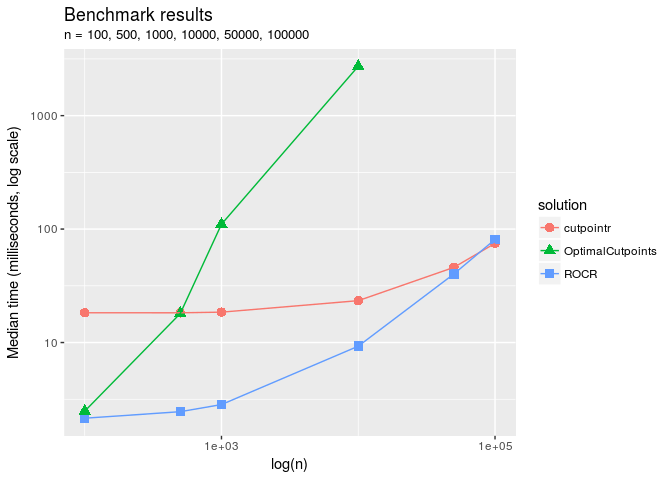
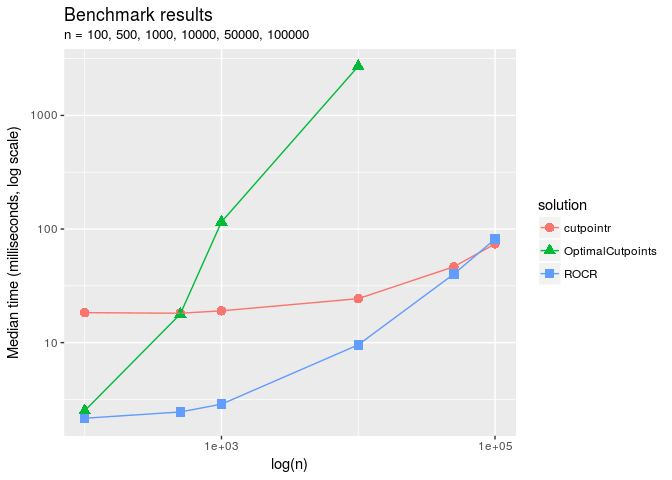
Modify print.cutpointr to print full width again

diff --git a/README.md b/README.md
@@ -76,13 +76,15 @@ opt_cut <- cutpointr(suicide, dsi, suicide)
 #> Assuming yes as the positive class
 #> Assuming the positive class has higher x values
 opt_cut
-#> # A tibble: 1 x 15
 #>   direction optimal_cutpoint          method Sum_Sens_Spec  accuracy
 #>       <chr>            <dbl>           <chr>         <dbl>     <dbl>
 #> 1        >=                2 maximize_metric      1.751792 0.8646617
-#> # ... with 10 more variables: sensitivity <dbl>, specificity <dbl>,
-#> #   AUC <dbl>, pos_class <fctr>, neg_class <fctr>, prevalence <dbl>,
-#> #   outcome <chr>, predictor <chr>, data <list>, roc_curve <list>
+#>   sensitivity specificity       AUC pos_class neg_class prevalence outcome
+#>         <dbl>       <dbl>     <dbl>    <fctr>    <fctr>      <dbl>   <chr>
+#> 1   0.8888889   0.8629032 0.9237791       yes        no 0.06766917 suicide
+#>   predictor               data          roc_curve
+#>       <chr>             <list>             <list>
+#> 1       dsi <tibble [532 x 2]> <tibble [13 x 10]>
 ```
 
 cutpointr makes assumptions about the direction of the dependency between class and x, if `direction` and / or `pos_class` or `neg_class` are not specified. The same result can be achieved by manually defining `direction` and the positive / negative classes which is slightly faster:
@@ -91,13 +93,15 @@ cutpointr makes assumptions about the direction of the dependency between class 
 opt_cut <- cutpointr(suicide, dsi, suicide, direction = ">=", pos_class = "yes",
                      neg_class = "no", method = maximize_metric, metric = youden)
 opt_cut
-#> # A tibble: 1 x 15
 #>   direction optimal_cutpoint          method Youden_Index  accuracy
 #>       <chr>            <dbl>           <chr>        <dbl>     <dbl>
 #> 1        >=                2 maximize_metric    0.7517921 0.8646617
-#> # ... with 10 more variables: sensitivity <dbl>, specificity <dbl>,
-#> #   AUC <dbl>, pos_class <chr>, neg_class <chr>, prevalence <dbl>,
-#> #   outcome <chr>, predictor <chr>, data <list>, roc_curve <list>
+#>   sensitivity specificity       AUC pos_class neg_class prevalence outcome
+#>         <dbl>       <dbl>     <dbl>     <chr>     <chr>      <dbl>   <chr>
+#> 1   0.8888889   0.8629032 0.9237791       yes        no 0.06766917 suicide
+#>   predictor               data          roc_curve
+#>       <chr>             <list>             <list>
+#> 1       dsi <tibble [532 x 2]> <tibble [13 x 10]>
 ```
 
 `opt_cut` is a tidy data frame that returns the input data in a nested tibble. Methods for summarizing and plotting the data and results are included:
@@ -152,15 +156,18 @@ opt_cut <- cutpointr(suicide, dsi, suicide, gender)
 #> Assuming yes as the positive class
 #> Assuming the positive class has higher x values
 opt_cut
-#> # A tibble: 2 x 16
 #>   subgroup direction optimal_cutpoint          method Sum_Sens_Spec
 #>      <chr>     <chr>            <dbl>           <chr>         <dbl>
 #> 1   female        >=                2 maximize_metric      1.808118
 #> 2     male        >=                3 maximize_metric      1.625106
-#> # ... with 11 more variables: accuracy <dbl>, sensitivity <dbl>,
-#> #   specificity <dbl>, AUC <dbl>, pos_class <fctr>, neg_class <fctr>,
-#> #   outcome <chr>, predictor <chr>, grouping <chr>, data <list>,
-#> #   roc_curve <list>
+#>    accuracy sensitivity specificity       AUC pos_class neg_class outcome
+#>       <dbl>       <dbl>       <dbl>     <dbl>    <fctr>    <fctr>   <chr>
+#> 1 0.8852041   0.9259259   0.8821918 0.9446474       yes        no suicide
+#> 2 0.8428571   0.7777778   0.8473282 0.8617472       yes        no suicide
+#>   predictor grouping               data          roc_curve
+#>       <chr>    <chr>             <list>             <list>
+#> 1       dsi   gender <tibble [392 x 2]> <tibble [11 x 10]>
+#> 2       dsi   gender <tibble [140 x 2]> <tibble [11 x 10]>
 summary(opt_cut)
 #> Method: maximize_metric 
 #> Predictor: dsi 
@@ -226,14 +233,15 @@ opt_cut <- cutpointr(suicide, dsi, suicide, boot_runs = 200)
 #> Assuming yes as the positive class
 #> Assuming the positive class has higher x values
 opt_cut
-#> # A tibble: 1 x 16
 #>   direction optimal_cutpoint          method Sum_Sens_Spec  accuracy
 #>       <chr>            <dbl>           <chr>         <dbl>     <dbl>
 #> 1        >=                2 maximize_metric      1.751792 0.8646617
-#> # ... with 11 more variables: sensitivity <dbl>, specificity <dbl>,
-#> #   AUC <dbl>, pos_class <fctr>, neg_class <fctr>, prevalence <dbl>,
-#> #   outcome <chr>, predictor <chr>, data <list>, roc_curve <list>,
-#> #   boot <list>
+#>   sensitivity specificity       AUC pos_class neg_class prevalence outcome
+#>         <dbl>       <dbl>     <dbl>    <fctr>    <fctr>      <dbl>   <chr>
+#> 1   0.8888889   0.8629032 0.9237791       yes        no 0.06766917 suicide
+#>   predictor               data          roc_curve                boot
+#>       <chr>             <list>             <list>              <list>
+#> 1       dsi <tibble [532 x 2]> <tibble [13 x 10]> <tibble [200 x 18]>
 ```
 
 The returned object has the additional column `boot` which is a nested tibble that includes the cutpoints per bootstrap sample along with the metric calculated using the function in `metric` and a number of additional metrics. The values in the second column that are calculated using the function in `metric` represent out-of-bag results. The other default metrics are suffixed by `_b` to indicate in-bag results or `_oob` to indicate out-of-bag results:
@@ -322,15 +330,22 @@ opt_cut <- cutpointr(suicide, dsi, suicide, gender, boot_runs = 200)
 #> Warning in .f(.x[[i]], .y[[i]], ...): 4 Missing values in bootstrap, maybe
 #> due to sampling of only one class
 opt_cut
-#> # A tibble: 2 x 17
 #>   subgroup direction optimal_cutpoint          method Sum_Sens_Spec
 #>      <chr>     <chr>            <dbl>           <chr>         <dbl>
 #> 1   female        >=                2 maximize_metric      1.808118
 #> 2     male        >=                3 maximize_metric      1.625106
-#> # ... with 12 more variables: accuracy <dbl>, sensitivity <dbl>,
-#> #   specificity <dbl>, AUC <dbl>, pos_class <fctr>, neg_class <fctr>,
-#> #   outcome <chr>, predictor <chr>, grouping <chr>, data <list>,
-#> #   roc_curve <list>, boot <list>
+#>    accuracy sensitivity specificity       AUC pos_class neg_class outcome
+#>       <dbl>       <dbl>       <dbl>     <dbl>    <fctr>    <fctr>   <chr>
+#> 1 0.8852041   0.9259259   0.8821918 0.9446474       yes        no suicide
+#> 2 0.8428571   0.7777778   0.8473282 0.8617472       yes        no suicide
+#>   predictor grouping               data          roc_curve
+#>       <chr>    <chr>             <list>             <list>
+#> 1       dsi   gender <tibble [392 x 2]> <tibble [11 x 10]>
+#> 2       dsi   gender <tibble [140 x 2]> <tibble [11 x 10]>
+#>                  boot
+#>                <list>
+#> 1 <tibble [200 x 18]>
+#> 2 <tibble [200 x 18]>
 summary(opt_cut)
 #> Method: maximize_metric 
 #> Predictor: dsi 
@@ -438,15 +453,22 @@ if (suppressPackageStartupMessages(require(doSNOW) & require(doRNG))) {
 #>     splitIndices, stopCluster
 #> Warning in .f(.x[[i]], .y[[i]], ...): 4 Missing values in bootstrap, maybe
 #> due to sampling of only one class
-#> # A tibble: 2 x 17
 #>   subgroup direction optimal_cutpoint          method Sum_Sens_Spec
 #>      <chr>     <chr>            <dbl>           <chr>         <dbl>
 #> 1   female        >=                2 maximize_metric      1.808118
 #> 2     male        >=                3 maximize_metric      1.625106
-#> # ... with 12 more variables: accuracy <dbl>, sensitivity <dbl>,
-#> #   specificity <dbl>, AUC <dbl>, pos_class <chr>, neg_class <fctr>,
-#> #   outcome <chr>, predictor <chr>, grouping <chr>, data <list>,
-#> #   roc_curve <list>, boot <list>
+#>    accuracy sensitivity specificity       AUC pos_class neg_class outcome
+#>       <dbl>       <dbl>       <dbl>     <dbl>     <chr>    <fctr>   <chr>
+#> 1 0.8852041   0.9259259   0.8821918 0.9446474       yes        no suicide
+#> 2 0.8428571   0.7777778   0.8473282 0.8617472       yes        no suicide
+#>   predictor grouping               data          roc_curve
+#>       <chr>    <chr>             <list>             <list>
+#> 1       dsi   gender <tibble [392 x 2]> <tibble [11 x 10]>
+#> 2       dsi   gender <tibble [140 x 2]> <tibble [11 x 10]>
+#>                  boot
+#>                <list>
+#> 1 <tibble [200 x 18]>
+#> 2 <tibble [200 x 18]>
 ```
 
 ### LOESS smoothing for selecting a cutpoint
@@ -459,15 +481,22 @@ opt_cut <- cutpointr(suicide, dsi, suicide, gender, method = minimize_metric,
 #> Assuming yes as the positive class
 #> Assuming the positive class has higher x values
 opt_cut
-#> # A tibble: 2 x 16
 #>   subgroup direction optimal_cutpoint          method
 #>      <chr>     <chr>            <dbl>           <chr>
 #> 1   female        >=                2 minimize_metric
 #> 2     male        >=                3 minimize_metric
-#> # ... with 12 more variables: misclassification_cost <dbl>,
-#> #   accuracy <dbl>, sensitivity <dbl>, specificity <dbl>, AUC <dbl>,
-#> #   pos_class <fctr>, neg_class <fctr>, outcome <chr>, predictor <chr>,
-#> #   grouping <chr>, data <list>, roc_curve <list>
+#>   misclassification_cost  accuracy sensitivity specificity       AUC
+#>                    <dbl>     <dbl>       <dbl>       <dbl>     <dbl>
+#> 1                     63 0.8852041   0.9259259   0.8821918 0.9446474
+#> 2                     40 0.8428571   0.7777778   0.8473282 0.8617472
+#>   pos_class neg_class outcome predictor grouping               data
+#>      <fctr>    <fctr>   <chr>     <chr>    <chr>             <list>
+#> 1       yes        no suicide       dsi   gender <tibble [392 x 2]>
+#> 2       yes        no suicide       dsi   gender <tibble [140 x 2]>
+#>            roc_curve
+#>               <list>
+#> 1 <tibble [11 x 10]>
+#> 2 <tibble [11 x 10]>
 ```
 
 ``` r
@@ -495,15 +524,22 @@ opt_cut <- cutpointr(suicide, dsi, suicide, gender,
 #> Assuming the positive class has higher x values
 #> fANCOVA 0.5-1 loaded
 opt_cut
-#> # A tibble: 2 x 16
 #>   subgroup direction optimal_cutpoint                method
 #>      <chr>     <chr>            <dbl>                 <chr>
 #> 1   female        >=                3 minimize_loess_metric
 #> 2     male        >=                3 minimize_loess_metric
-#> # ... with 12 more variables: misclassification_cost <dbl>,
-#> #   accuracy <dbl>, sensitivity <dbl>, specificity <dbl>, AUC <dbl>,
-#> #   pos_class <fctr>, neg_class <fctr>, outcome <chr>, predictor <chr>,
-#> #   grouping <chr>, data <list>, roc_curve <list>
+#>   misclassification_cost  accuracy sensitivity specificity       AUC
+#>                    <dbl>     <dbl>       <dbl>       <dbl>     <dbl>
+#> 1               76.65028 0.8954082   0.8148148   0.9013699 0.9446474
+#> 2               40.00000 0.8428571   0.7777778   0.8473282 0.8617472
+#>   pos_class neg_class outcome predictor grouping               data
+#>      <fctr>    <fctr>   <chr>     <chr>    <chr>             <list>
+#> 1       yes        no suicide       dsi   gender <tibble [392 x 2]>
+#> 2       yes        no suicide       dsi   gender <tibble [140 x 2]>
+#>            roc_curve
+#>               <list>
+#> 1 <tibble [11 x 11]>
+#> 2 <tibble [11 x 11]>
 ```
 
 ``` r
@@ -528,15 +564,22 @@ opt_cut <- cutpointr(suicide, log(dsi + 1), suicide == "yes",
 #> Assuming TRUE as the positive class
 #> Assuming the positive class has higher x values
 opt_cut
-#> # A tibble: 2 x 17
 #>   subgroup direction optimal_cutpoint          method Sum_Sens_Spec
 #>      <chr>     <chr>            <dbl>           <chr>         <dbl>
 #> 1    FALSE        >=         1.791759 maximize_metric      1.614865
 #> 2     TRUE        >=         1.098612 maximize_metric      1.807662
-#> # ... with 12 more variables: accuracy <dbl>, sensitivity <dbl>,
-#> #   specificity <dbl>, AUC <dbl>, pos_class <lgl>, neg_class <lgl>,
-#> #   outcome <chr>, predictor <chr>, grouping <chr>, data <list>,
-#> #   roc_curve <list>, boot <list>
+#>    accuracy sensitivity specificity       AUC pos_class neg_class
+#>       <dbl>       <dbl>       <dbl>     <dbl>     <lgl>     <lgl>
+#> 1 0.8488372   0.7500000   0.8648649 0.8513514      TRUE     FALSE
+#> 2 0.8923767   0.9166667   0.8909953 0.9228870      TRUE     FALSE
+#>                  outcome    predictor    grouping               data
+#>                    <chr>        <chr>       <chr>             <list>
+#> 1 "suicide == \\"yes\\"" log(dsi + 1) dsi%%2 == 0  <tibble [86 x 2]>
+#> 2 "suicide == \\"yes\\"" log(dsi + 1) dsi%%2 == 0 <tibble [446 x 2]>
+#>           roc_curve               boot
+#>              <list>             <list>
+#> 1 <tibble [7 x 10]> <tibble [30 x 18]>
+#> 2 <tibble [7 x 10]> <tibble [30 x 18]>
 summary(opt_cut)
 #> Method: maximize_metric 
 #> Predictor: log(dsi + 1) 
@@ -751,15 +794,18 @@ opt_cut <- cutpointr(suicide, dsi, suicide, gender, method = minimize_metric,
 #> Warning in .f(.x[[i]], .y[[i]], ...): 2 Missing values in bootstrap, maybe
 #> due to sampling of only one class
 opt_cut
-#> # A tibble: 2 x 17
 #>   subgroup direction optimal_cutpoint          method abs_d_sesp  accuracy
 #>      <chr>     <chr>            <dbl>           <chr>      <dbl>     <dbl>
 #> 1   female        >=                2 minimize_metric 0.04373415 0.8852041
 #> 2     male        >=                2 minimize_metric 0.03138253 0.8071429
-#> # ... with 11 more variables: sensitivity <dbl>, specificity <dbl>,
-#> #   AUC <dbl>, pos_class <fctr>, neg_class <fctr>, outcome <chr>,
-#> #   predictor <chr>, grouping <chr>, data <list>, roc_curve <list>,
-#> #   boot <list>
+#>   sensitivity specificity       AUC pos_class neg_class outcome predictor
+#>         <dbl>       <dbl>     <dbl>    <fctr>    <fctr>   <chr>     <chr>
+#> 1   0.9259259   0.8821918 0.9446474       yes        no suicide       dsi
+#> 2   0.7777778   0.8091603 0.8617472       yes        no suicide       dsi
+#>   grouping               data          roc_curve                boot
+#>      <chr>             <list>             <list>              <list>
+#> 1   gender <tibble [392 x 2]> <tibble [11 x 10]> <tibble [100 x 18]>
+#> 2   gender <tibble [140 x 2]> <tibble [11 x 10]> <tibble [100 x 18]>
 plot_cut_boot(opt_cut)
 ```
 
@@ -901,17 +947,20 @@ Some `method` functions that make use of the additional arguments (that are capt
 
 ``` r
 oc_youden_normal
-#> function(data, x, class, pos_class = NULL, neg_class = NULL,
-#>                              direction, ...) {
+#> function (data, x, class, pos_class = NULL, neg_class = NULL, 
+#>     direction, ...) 
+#> {
 #>     stopifnot(is.character(x))
 #>     stopifnot(is.character(class))
 #>     iv <- unlist(data[, x])
-#>     if (any(!is.finite(iv))) stop("Only finite values allowed in oc_youden_normal")
+#>     if (any(!is.finite(iv))) 
+#>         stop("Only finite values allowed in oc_youden_normal")
 #>     cla <- unlist(data[, class])
 #>     if (direction %in% c(">", ">=")) {
 #>         patients <- iv[cla == pos_class]
 #>         controls <- iv[cla == neg_class]
-#>     } else if (direction %in% c("<", "<=")) {
+#>     }
+#>     else if (direction %in% c("<", "<=")) {
 #>         patients <- iv[cla == neg_class]
 #>         controls <- iv[cla == pos_class]
 #>     }
@@ -920,20 +969,21 @@ oc_youden_normal
 #>     m_d <- mean(patients)
 #>     sd_d <- stats::sd(patients)
 #>     if (sd_h == sd_d) {
-#>         c <- (m_h+m_d)/2
-#>     } else if (any(sd_h == 0, sd_d == 0)) {
-#>         # if sd_h = 0 and/or sd_d = 0 the cutoff would be NaN
-#>         c <- (m_h+m_d)/2
-#>     } else {
-#>         c <- ((m_d*sd_h^2 - m_h*sd_d^2) - sd_h*sd_d*(sqrt((m_h-m_d)^2 + (sd_h^2-sd_d^2) * log(sd_h^2/sd_d^2)))) /
-#>             (sd_h^2-sd_d^2)
+#>         c <- (m_h + m_d)/2
 #>     }
-#> 
-#>     # Extremely high or low cutoffs can result if m_d < m_h and direction = ">="
+#>     else if (any(sd_h == 0, sd_d == 0)) {
+#>         c <- (m_h + m_d)/2
+#>     }
+#>     else {
+#>         c <- ((m_d * sd_h^2 - m_h * sd_d^2) - sd_h * sd_d * (sqrt((m_h - 
+#>             m_d)^2 + (sd_h^2 - sd_d^2) * log(sd_h^2/sd_d^2))))/(sd_h^2 - 
+#>             sd_d^2)
+#>     }
 #>     if (c < min(c(controls, patients))) {
 #>         warning(paste("Cutpoint", c, "was restricted to range of independent variable"))
 #>         c <- min(c(controls, patients))
-#>     } else if (c > max(c(controls, patients))) {
+#>     }
+#>     else if (c > max(c(controls, patients))) {
 #>         warning(paste("Cutpoint", c, "was restricted to range of independent variable"))
 #>         c <- max(c(controls, patients))
 #>     }
@@ -956,9 +1006,11 @@ For example, this is the `accuracy` metric function:
 
 ``` r
 misclassification_cost
-#> function(tp, fp, tn, fn, cost_fp = 1, cost_fn = 1, ...) {
+#> function (tp, fp, tn, fn, cost_fp = 1, cost_fn = 1, ...) 
+#> {
 #>     misclassification_cost <- cost_fp * fp + cost_fn * fn
-#>     misclassification_cost <- matrix(misclassification_cost, ncol = 1)
+#>     misclassification_cost <- matrix(misclassification_cost, 
+#>         ncol = 1)
 #>     colnames(misclassification_cost) <- "misclassification_cost"
 #>     return(misclassification_cost)
 #> }
@@ -1041,7 +1093,7 @@ bench_50000 <- microbenchmark::microbenchmark(
     cutpointr(dat, x, y, pos_class = 1, neg_class = 0,
               direction = ">=", metric = youden),
     rocr_sensspec(dat$x, dat$y),
-    times = 50
+    times = 100
 )
 
 n <- 100000
@@ -1051,7 +1103,7 @@ bench_100000 <- microbenchmark::microbenchmark(
     cutpointr(dat, x, y, pos_class = 1, neg_class = 0,
               direction = ">=", metric = youden),
     rocr_sensspec(dat$x, dat$y),
-    times = 50
+    times = 100
 )
 
 results <- rbind(data.frame(time = summary(bench_100)$median,
